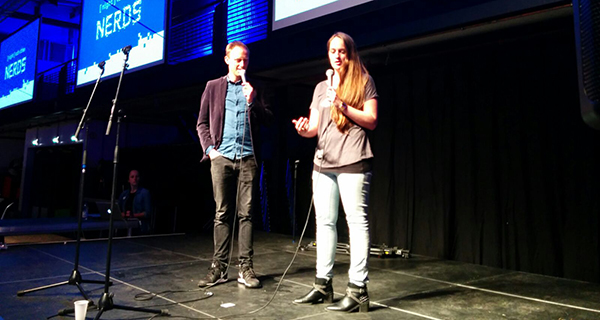
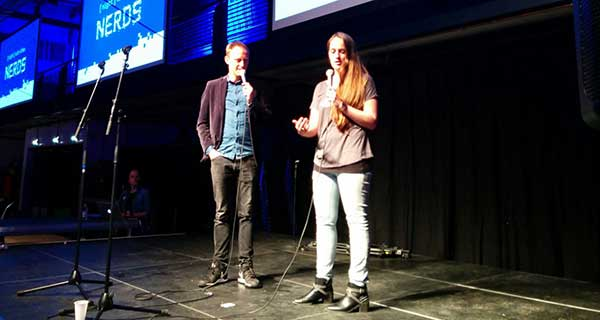
Update images

diff --git a/views/en/page/girlcode.html b/views/en/page/girlcode.html
@@ -85,7 +85,7 @@
           </div>
           <div class="block-small">
             <div class="visual caption">
-              <img src="{{assetsUrl}}/images/girlcode/girlcodemeetsmeteor.png" alt="">
+              <img src="{{assetsUrl}}/images/girlcode/girlcodemeetsmeteor.jpg" alt="">
               <p>Coding together</p>
             </div>
             <div class="body">
